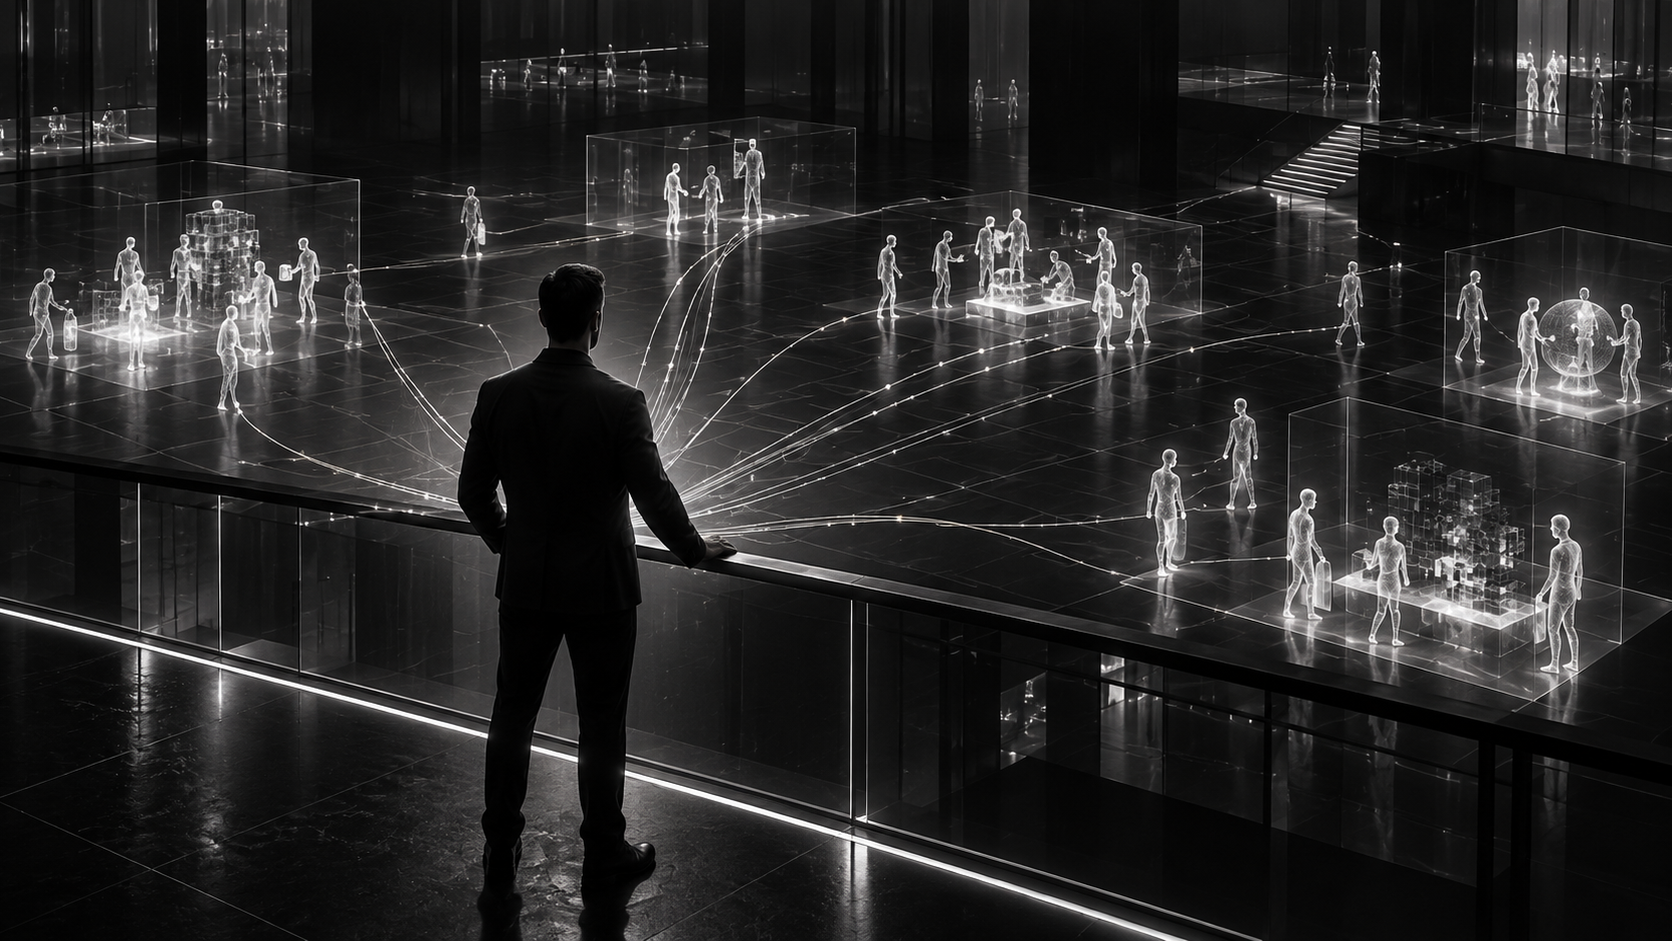
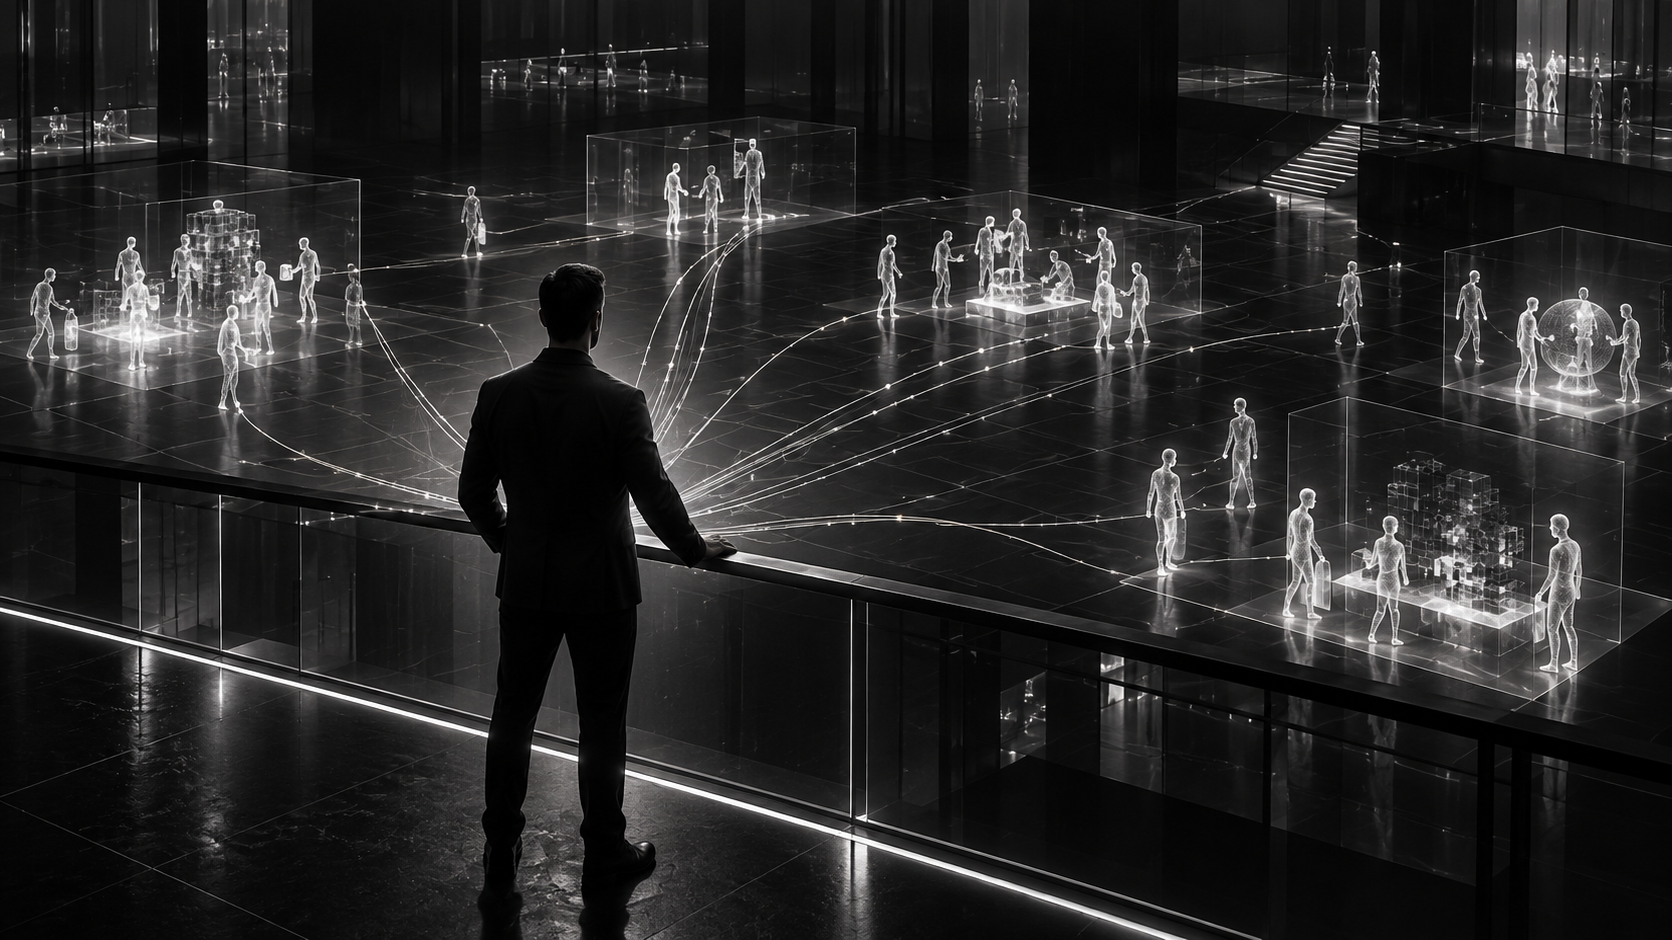
Use approved gallery master for weekly article

diff --git a/pages/AIWorkforceInventoryBusinessProfessionalsPage.tsx b/pages/AIWorkforceInventoryBusinessProfessionalsPage.tsx
@@ -18,7 +18,7 @@ const AIWorkforceInventoryBusinessProfessionalsPage: React.FC = () => {
         ogImage="https://academy.nexiuslabs.com/images/blog/ai-workforce-inventory-business-professionals.png"
         ogImageAlt="A human leader directing a coordinated digital workforce through a governed operating structure"
         ogImageWidth={1672}
-        ogImageHeight={941}
+        ogImageHeight={940}
       />
       <ScrollToTop />
       <div className="academy-article-body min-h-screen bg-[#f4f7f9] py-10">
@@ -40,7 +40,7 @@ const AIWorkforceInventoryBusinessProfessionalsPage: React.FC = () => {
             className="w-full rounded-xl shadow-md border border-gray-100 mb-8"
             loading="eager"
             width={1672}
-            height={941}
+            height={940}
             decoding="async"
           />
 
